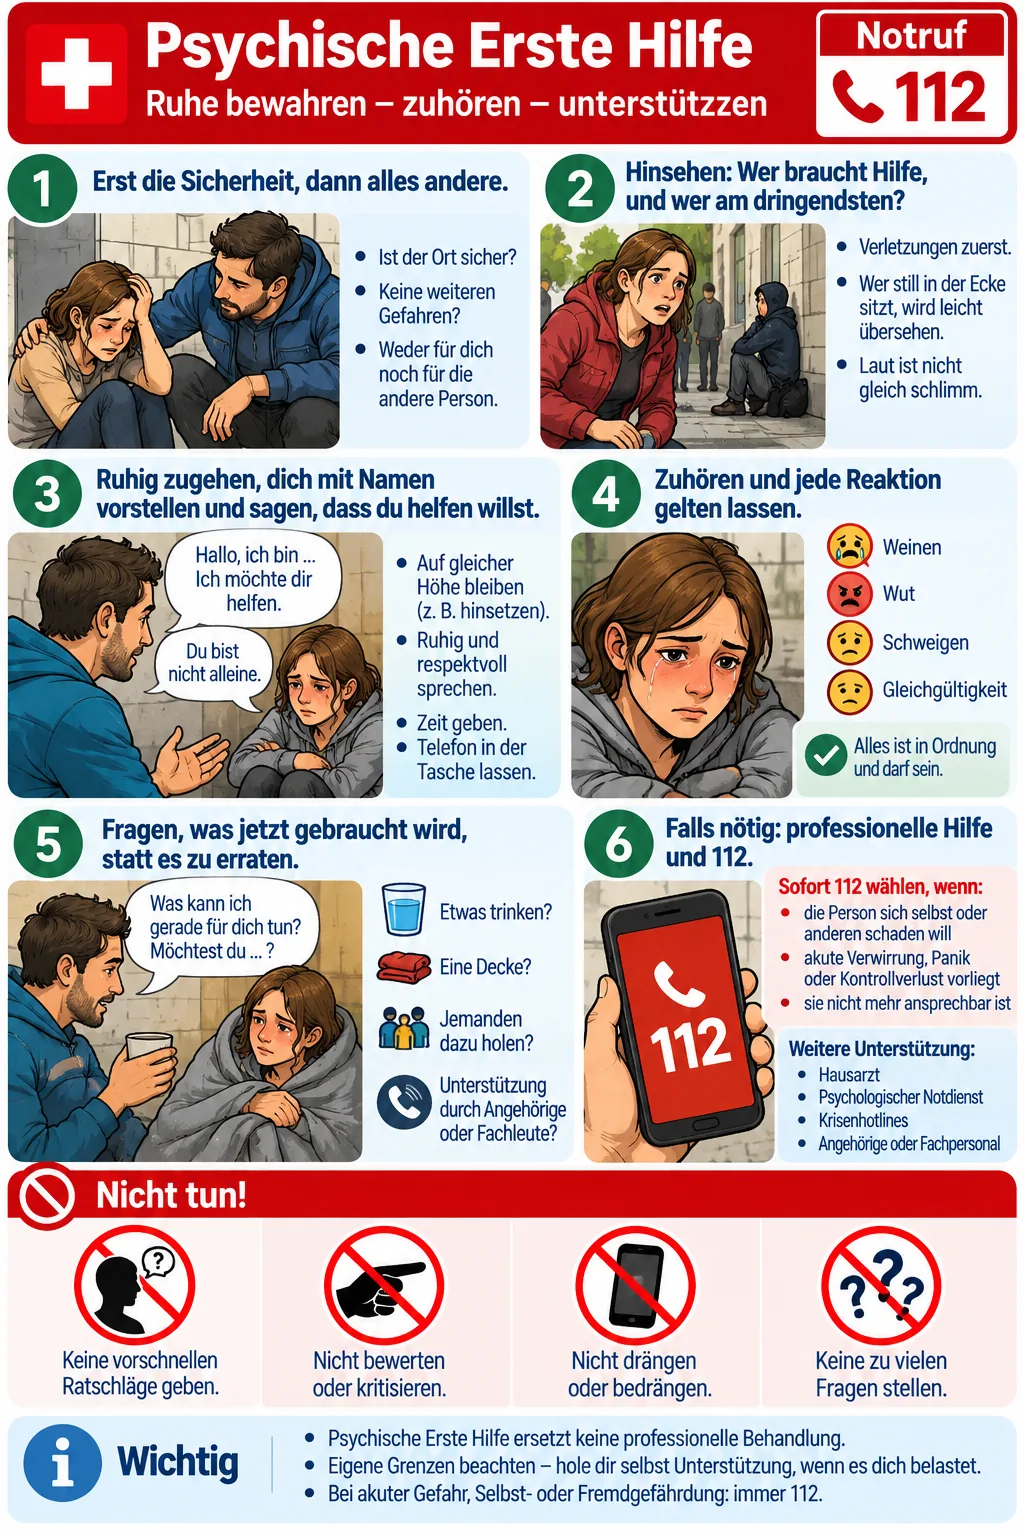
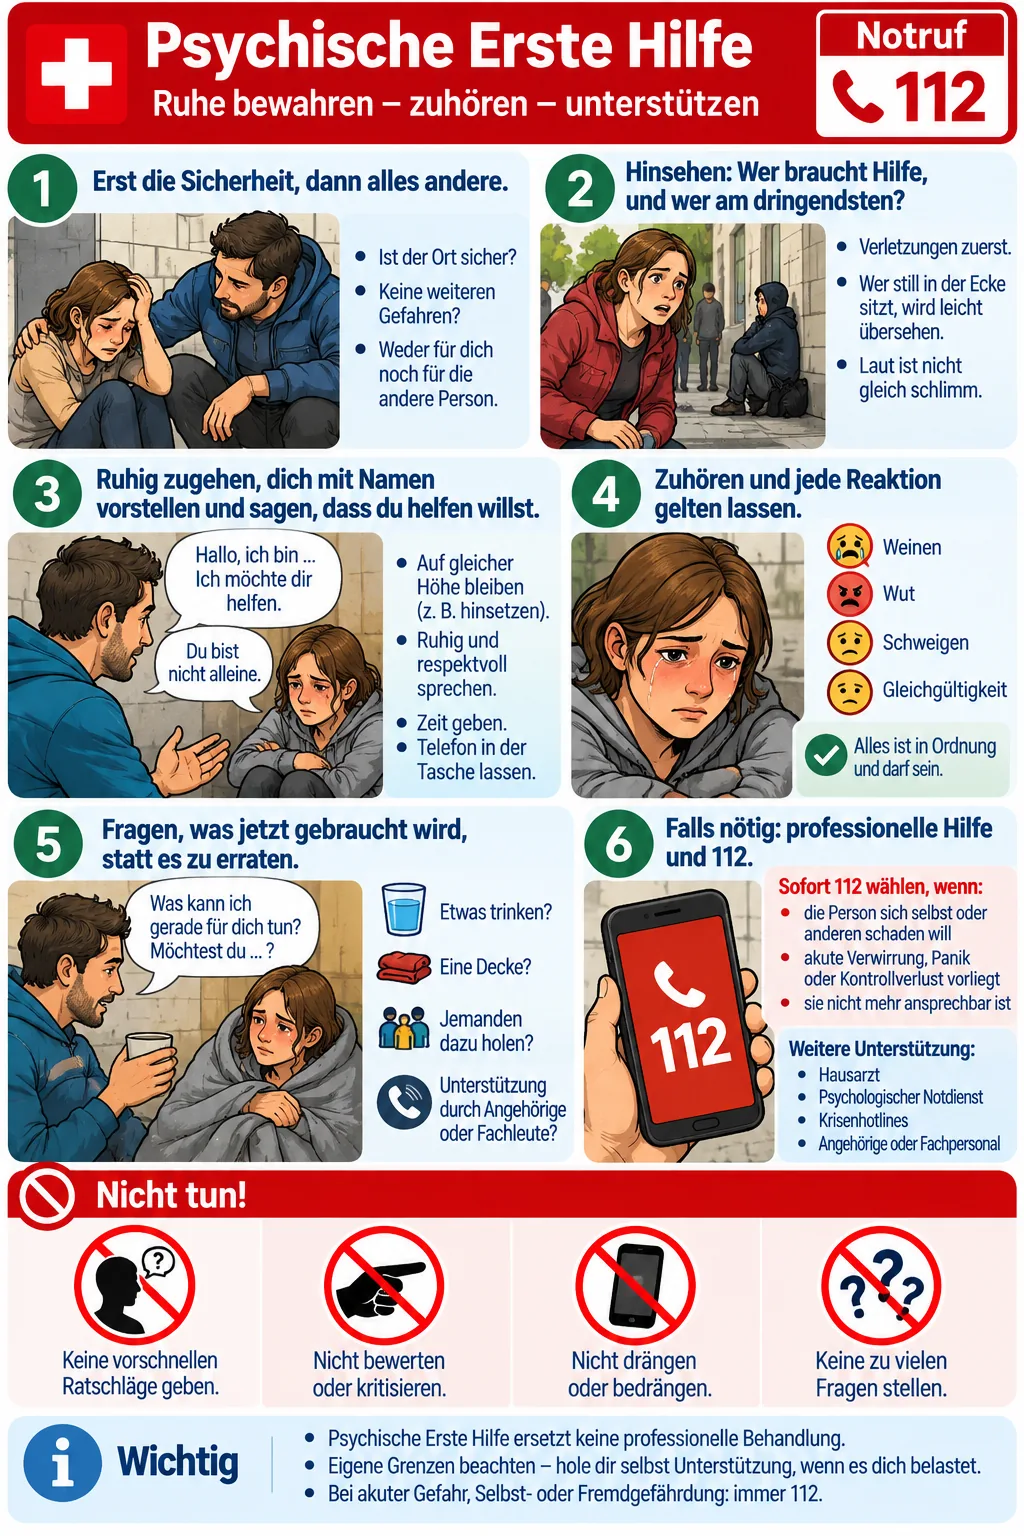
Correct the small slips in seven first aid charts
Poisoning said "Sie" where every other chart says "du", and gave Berlin's
poison centre as the one for Germany; it now says "du" and "(Berlin)".
Heat listed hot dry skin among the signs of heat exhaustion, which is
heat stroke; it now says pale, damp skin. Jellyfish read "krazten", and
picked tentacles off with tweezers where the guide binds the stinging
threads with shaving foam or wet sand and scrapes them off, as the DLRG
says; both now match.

A spell check over the recognised text of all 31 charts found four more
typos, also corrected: "unterstützzen", "Bewussstein", "Ruchsask" and
"dabeisein". The letters are the charts' own wherever they could be
moved; the new lines on heat, jellyfish and the poison centre's name
are set in the macOS face nearest each chart.

Changed region(s): [[0.125, 0.0625, 0.75, 0.0938]]

diff --git a/preppsuite_flutter/tool/first_aid/chart_patches.py b/preppsuite_flutter/tool/first_aid/chart_patches.py
@@ -30,8 +30,11 @@ import hashlib
 import numpy as np
 from PIL import Image, ImageDraw, ImageFont
 
-NARROW = "/System/Library/Fonts/Supplemental/Arial Narrow.ttf"
-NARROW_BOLD = "/System/Library/Fonts/Supplemental/Arial Narrow Bold.ttf"
+# (file, face): the macOS faces nearest each chart's own, picked by
+# setting the chart's line beside the original.
+NARROW = ("/System/Library/Fonts/Supplemental/Arial Narrow.ttf", 0)
+NARROW_BOLD = ("/System/Library/Fonts/Supplemental/Arial Narrow Bold.ttf", 0)
+CONDENSED_MEDIUM = ("/System/Library/Fonts/Avenir Next Condensed.ttc", 5)
 
 
 def _plane(pixels, mask):
@@ -70,23 +73,31 @@ class Ink:
         return runs
 
 
-def background(image, box):
-    """The pixels of [box], and the plane fitted through its paper."""
+def _crop(image, box, light):
+    """The pixels of [box], turned over for light letters on a dark ground
+    so that ink is always what is darker than the paper."""
     pixels = np.asarray(image.crop(box)).astype(float)
+    return 255 - pixels if light else pixels
+
+
+def background(image, box, light=False):
+    """The pixels of [box], and the plane fitted through its paper."""
+    pixels = _crop(image, box, light)
     lum = pixels.mean(axis=2)
     # Text is sparse in a line's box, so most of it is paper.
     paper = lum > np.percentile(lum, 90) - 25
     return pixels, _plane(pixels, paper)
 
 
-def ink(image, box):
-    pixels, fitted = background(image, box)
+def ink(image, box, light=False):
+    """The letters in [box]; [light] for light letters on a dark ground."""
+    pixels, fitted = background(image, box, light)
     lum, base = pixels.mean(axis=2), fitted.mean(axis=2)
     darkest = np.percentile(lum, 1)
     colour = pixels[lum <= darkest + 8].mean(axis=0)
     alpha = np.clip((base - lum) / np.maximum(base - colour.mean(), 1), 0, 1)
     alpha[alpha < 0.08] = 0
-    return Ink(alpha, colour)
+    return Ink(alpha, 255 - colour if light else colour)
 
 
 def erase(image, box, ring=6):
@@ -129,14 +140,19 @@ def paste_ink(image, at, alpha, colour):
     image.paste(Image.fromarray(out.clip(0, 255).astype(np.uint8)), (x, y))
 
 
-def set_line(image, left, baseline, text, size, colour, *, bold=False):
+def _font(face, size):
+    path, index = face
+    return ImageFont.truetype(path, size, index=index)
+
+
+def set_line(image, left, baseline, text, size, colour, *, face=NARROW):
     """Sets one line of new text, its baseline at [baseline].
 
     Drawn at four times the size and scaled down, which smooths the edges
     the way the charts' own text is smoothed.
     """
     scale = 4
-    font = ImageFont.truetype(NARROW_BOLD if bold else NARROW, size * scale)
+    font = _font(face, size * scale)
     layer = Image.new("L", (image.width * scale, image.height * scale), 0)
     ImageDraw.Draw(layer).text((left * scale, baseline * scale), text,
                                font=font, fill=255, anchor="ls")
@@ -154,18 +170,34 @@ def dot(image, centre, radius, colour):
               np.asarray(layer).astype(float) / 255, np.asarray(colour, float))
 
 
-def text_width(text, size, bold=False):
-    font = ImageFont.truetype(NARROW_BOLD if bold else NARROW, size)
-    return font.getlength(text)
+def text_width(text, size, face=NARROW):
+    return _font(face, size * 4).getlength(text) / 4
 
 
-def _closed_up(image, line, cut_from, cut_to):
+def _closed_up(image, line, cut_from, cut_to, light=False):
     """Takes columns [cut_from, cut_to) out of [line] and closes the gap."""
-    k = ink(image, line)
+    k = ink(image, line, light)
     x0 = line[0]
     alpha = np.hstack([k.alpha[:, :cut_from - x0], k.alpha[:, cut_to - x0:]])
     erase(image, line)
     paste_ink(image, line[:2], alpha, k.colour)
+
+
+def _rebuilt(image, line, pieces, light=False):
+    """Sets [line] anew from its own letters, left aligned where it was.
+
+    [pieces] are column ranges (start, end) of the line's ink, in the
+    order they are to stand, or a number of empty columns.
+    """
+    k = ink(image, line, light)
+    x0 = line[0]
+    parts = [
+        np.zeros((k.alpha.shape[0], piece)) if isinstance(piece, int)
+        else k.alpha[:, piece[0] - x0:piece[1] - x0]
+        for piece in pieces
+    ]
+    erase(image, line)
+    paste_ink(image, line[:2], np.hstack(parts), k.colour)
 
 
 # Each correction was measured on the picture named in its key, at its
@@ -229,14 +261,87 @@ def _burns(image):
     # Clear of the hand above row 432 and of the baby below it.
     for text, bold, baseline in lines:
         room = 237 if baseline < 432 else 245
-        assert text_width(text, 19 if bold else 21, bold) <= room + 1, text
+        face = NARROW_BOLD if bold else NARROW
+        assert text_width(text, 19 if bold else 21, face) <= room + 1, text
     erase(image, (528, 432, 812, 560))
     erase(image, (528, 364, 800, 432))
     for text, bold, baseline in lines:
         set_line(image, 563, baseline, text, 19 if bold else 21, (3, 4, 5),
-                 bold=bold)
+                 face=NARROW_BOLD if bold else NARROW)
     for baseline in (392, 471, 552):
         dot(image, (544, round(baseline - 7.5)), 7, (18, 156, 51))
+
+
+def _poisoning(image):
+    # The only chart that says "Sie" to its reader; the others say "du".
+    # "Rufen Sie das" -> "Ruf das": the e (from 387) to the end of "Sie".
+    # The line ends at the hyphen (603); the drawn hair begins after it.
+    _closed_up(image, (352, 268, 604, 290), 387, 433)
+    # "lassen Sie sich" -> "lass dich": the d from "und", "ich" from
+    # "sich".
+    _rebuilt(image, (352, 292, 596, 313),
+             [(352, 512), 3, (468, 477), 1, (569, 591)])
+    # "Nennen Sie dem" -> "Nenne dem".
+    _closed_up(image, (700, 271, 960, 294), 761, 800)
+    # The number is Berlin's, one of eight centres, not one for the
+    # country: "(Deutschland)" -> "(Berlin)". There is no B on the chart
+    # to borrow, so the word is set anew.
+    erase(image, (398, 469, 505, 491))
+    set_line(image, 403, 484, "(Berlin)", 17.1, (3, 3, 2), face=NARROW_BOLD)
+
+
+def _heat(image):
+    # "heiße, trockene Haut (oder starkes Schwitzen)" stood among the
+    # signs of heat exhaustion; hot dry skin is heat stroke, which the
+    # box beside it names. Heat exhaustion is pale, damp skin (DRK). The
+    # second line is drawn over the illustration and stays as it is.
+    erase(image, (45, 327, 206, 348))
+    set_line(image, 49, 343, "blasse, feuchte Haut", 19.9, (4, 4, 3))
+
+
+def _jellyfish(image):
+    # "krazten" -> "kratzen": t and z change places.
+    _rebuilt(image, (556, 326, 790, 350),
+             [(556, 742), (751, 758), (742, 751), 1, (758, 790)])
+    # The first point picked tentacles off with tweezers. The guide
+    # follows the DLRG: bind the stinging threads with shaving foam or
+    # wet sand, let it dry, scrape it off with a card. The point after it,
+    # rinsing with seawater, stays.
+    lines = [
+        ("Nesselfäden mit Rasierschaum oder", 238),
+        ("feuchtem Sand binden, antrocknen", 262),
+        ("lassen, mit einer Karte abschaben.", 286),
+    ]
+    for text, _ in lines:
+        assert text_width(text, 21.5, CONDENSED_MEDIUM) <= 912 - 561, text
+    erase(image, (553, 220, 912, 297))
+    for text, baseline in lines:
+        set_line(image, 561, baseline, text, 21.5, (2, 3, 3),
+                 face=CONDENSED_MEDIUM)
+
+
+def _faint(image):
+    # "Bewussstein." -> "Bewusstsein.": the third s and the t change
+    # places. White on the red banner.
+    _rebuilt(image, (598, 149, 758, 177),
+             [(598, 691), (702, 711), (691, 702), (711, 758)], light=True)
+    # "Ruchsask" -> "Rucksack": the h gives way to the word's own k, the
+    # second s to its c. Both pairs are the same width, so ")." stays.
+    _rebuilt(image, (375, 563, 492, 589),
+             [(375, 421), (462, 472), (431, 452), (411, 421), (462, 492)])
+
+
+def _childbirth(image):
+    # "wer dabeisein" -> "wer dabei sein", as written since 1996.
+    _rebuilt(image, (36, 447, 200, 472), [(36, 144), 6, (144, 194)],
+             light=True)
+
+
+def _psychological_first_aid(image):
+    # "unterstützzen" -> "unterstützen": one z out, and the banner's line
+    # centred again.
+    _rebuilt(image, (140, 86, 772, 118), [7, (140, 717), (732, 772)],
+             light=True)
 
 
 PATCHES = {
@@ -248,6 +353,18 @@ PATCHES = {
         "Kleines statt Keines Kind", _dehydration),
[1 lines of base64/hex data omitted]
         "unleserliche Zeile nach Oberschenkelbruch entfernt", _fracture),
[1 lines of base64/hex data omitted]
+        "du statt Sie, Giftnotruf Berlin statt Deutschland", _poisoning),
[1 lines of base64/hex data omitted]
+        "blasse, feuchte Haut statt heiße, trockene", _heat),
[1 lines of base64/hex data omitted]
+        "kratzen statt krazten, Nesselfäden binden nach DLRG", _jellyfish),
[1 lines of base64/hex data omitted]
+        "Bewusstsein statt Bewussstein, Rucksack statt Ruchsask", _faint),
[1 lines of base64/hex data omitted]
+        "dabei sein statt dabeisein", _childbirth),
[1 lines of base64/hex data omitted]
+        "unterstützen statt unterstützzen", _psychological_first_aid),
 }
 
 

diff --git a/docs/erste-hilfe.md b/docs/erste-hilfe.md
@@ -289,6 +289,21 @@ wo neuer Text nötig ist, wird er in Arial Narrow gesetzt. Am 12.10.2026:
 - **Austrocknung:** „Keines Kind" wurde zu „Kleines Kind".
 - **Knochenbruch:** Die abgebrochene, unleserliche Zeile nach
   „Oberschenkelbruch" ist entfernt.
+- **Vergiftung:** „du" statt „Sie", wie auf allen anderen Tafeln; die
+  Nummer 030 19240 als „(Berlin)" statt „(Deutschland)" – es ist eines
+  von acht Giftinformationszentren, die App listet alle.
+- **Hitze:** Unter den Anzeichen der Hitzeerschöpfung stand „heiße,
+  trockene Haut"; das ist der Hitzschlag, den der Kasten daneben nennt.
+  Jetzt „blasse, feuchte Haut" (DRK).
+- **Quallen:** „kratzen" statt „krazten"; der erste Punkt zieht keine
+  Tentakel mehr mit der Pinzette ab, sondern bindet die Nesselfäden mit
+  Rasierschaum oder feuchtem Sand und schabt sie mit einer Karte ab, wie
+  der Text nach der DLRG.
+
+Eine Rechtschreibprüfung über den per Texterkennung gelesenen Text
+aller Tafeln fand danach noch vier Tippfehler, ebenfalls korrigiert:
+„unterstützen" (Psychische Erste Hilfe), „Bewusstsein" und „Rucksack"
+(Ohnmacht), „dabei sein" (Geburt).
 
 Eine Tafel ist ein WebP in voller Größe (`assets/first_aid/de/`,
 zusammen 7,6 MB), angelegt mit `tool/first_aid/infographic.py`.
